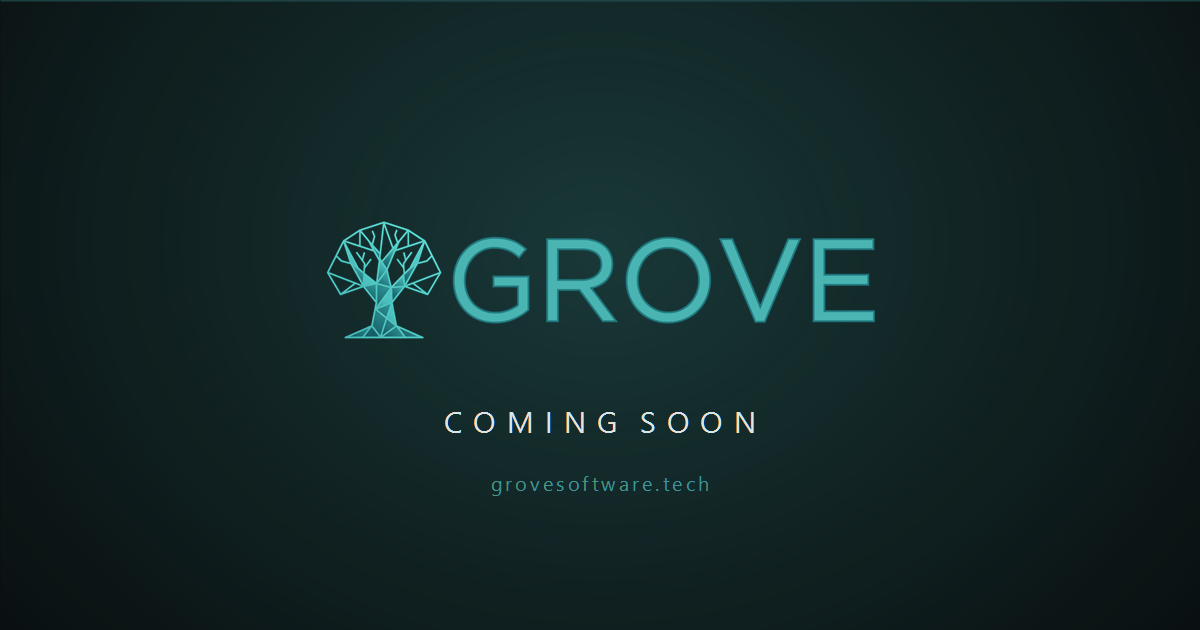
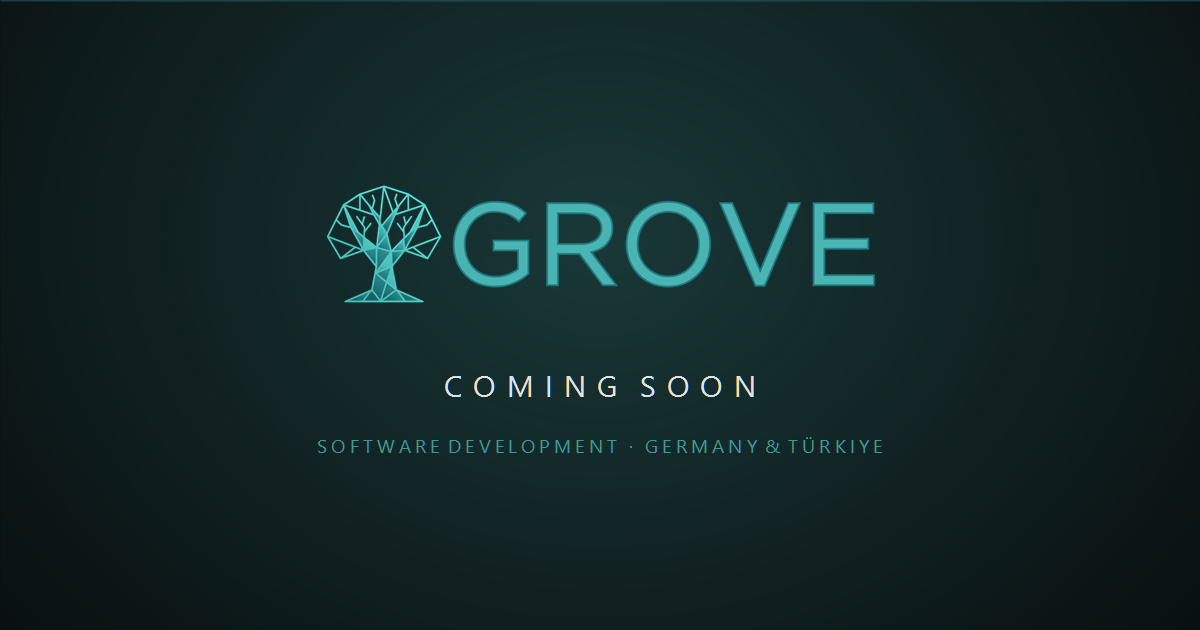
feat: put the real positioning in the copy
Replaces the placeholder message now that the company is known: a
Germany-based software company with its engineering team in Türkiye.

- eyebrow: Software Development
- lede: what Grove builds and the Germany/Türkiye operating model
- footer: Germany · Türkiye in place of the domain, which the browser bar
  and the link unfurl already show
- meta description, og:description and the Organization JSON-LD follow
- og-image carries the positioning line and is vertically recentred

The longer lede pushed a 740x380 landscape viewport 44px past the fold.
Fixed by widening the measure at max-height:620px rather than shrinking the
type — one fewer wrapped line buys back more height than a smaller font.
Re-measured at 360x740, 390x844, 740x380 and 1024x700: no overflow on
either axis.

Constraint: single screen, no scroll, so the copy has to earn its height
Rejected: listing the full service catalogue | a holding page has one job,
  and the list belongs on the real site
Confidence: high
Scope-risk: narrow
Not-tested: docker build (no local daemon); guarded by RUN nginx -t at build
Not-tested: live rendering in iOS Safari and Firefox

diff --git a/index.html b/index.html
@@ -5,7 +5,7 @@
 <meta name="viewport" content="width=device-width, initial-scale=1">
 
 <title>Grove Software — Coming soon</title>
-<meta name="description" content="Grove Software builds software and technology. Our full site is on the way — until then, find us on LinkedIn.">
+<meta name="description" content="Grove Software builds custom software, web and mobile products for European businesses — German business expertise, engineering from our team in Türkiye. Full site coming soon.">
 <link rel="canonical" href="https://grovesoftware.tech/">
 <meta name="theme-color" content="#060A0B">
 
@@ -13,7 +13,7 @@
 <meta property="og:url" content="https://grovesoftware.tech/">
 <meta property="og:site_name" content="Grove Software">
 <meta property="og:title" content="Grove Software — Coming soon">
-<meta property="og:description" content="Grove Software builds software and technology. Our full site is on the way — until then, find us on LinkedIn.">
+<meta property="og:description" content="Custom software, web and mobile products for European businesses — German business expertise, engineering from our team in Türkiye. Full site coming soon.">
 <meta property="og:image" content="https://grovesoftware.tech/assets/og-image.png">
 <meta property="og:image:width" content="1200">
 <meta property="og:image:height" content="630">
@@ -36,6 +36,10 @@
   "name": "Grove Software",
   "url": "https://grovesoftware.tech/",
   "logo": "https://grovesoftware.tech/assets/icon-512.png",
+  "description": "Software development company building custom software, web and mobile products, and integrations for European businesses, with business operations in Germany and an engineering team in Türkiye.",
+  "slogan": "German business expertise. Strong technical execution. Smarter software development.",
+  "address": { "@type": "PostalAddress", "addressCountry": "DE" },
+  "areaServed": "EU",
   "sameAs": ["https://www.linkedin.com/company/grovesoftware/"]
 }
 </script>
@@ -55,12 +59,14 @@
 
       <hr class="rule" data-reveal>
 
-      <p class="eyebrow" data-reveal>Software &amp; Technology</p>
+      <p class="eyebrow" data-reveal>Software Development</p>
 
       <p class="headline" data-reveal>Coming soon</p>
 
       <p class="lede" data-reveal>
-        A new site is growing here. Until it&rsquo;s ready, this is where to find us.
+        We build custom software, web and mobile products for European
+        businesses &mdash; German business expertise, engineering from our
+        team in T&uuml;rkiye.
       </p>
 
       <a class="link" href="https://www.linkedin.com/company/grovesoftware/"
@@ -77,7 +83,7 @@
 
   <footer class="foot" data-reveal>
     <span>&copy; 2026 Grove Software</span>
-    <span class="foot-domain">grovesoftware.tech</span>
+    <span class="foot-where">Germany &middot; T&uuml;rkiye</span>
   </footer>
 </main>
 

diff --git a/styles.css b/styles.css
@@ -192,7 +192,7 @@ body {
   color: rgba(143, 163, 162, 0.62);
 }
 
-.foot-domain { color: rgba(73, 180, 177, 0.72); }
+.foot-where { color: rgba(73, 180, 177, 0.72); }
 
 /* ---------- entrance ---------- */
 
@@ -246,13 +246,26 @@ body {
   .lede { max-width: 24rem; }
 }
 
-/* Landscape phones and short windows: shrink the lockup so the block still
-   clears the fold rather than relying on the scroll. */
+/* Landscape phones and short windows. Declared after the narrow-screen block
+   so these win where both apply. The lede is given more width here, not less:
+   at 740px a wider measure costs one fewer line, which buys back more height
+   than shrinking the type does. */
 @media (max-height: 620px) {
-  .headline { font-size: clamp(2.1rem, 5.4vw, 3.6rem); }
+  .shell { padding-block: 1.25rem; gap: 1.25rem; }
   .mark img { width: clamp(10rem, 20vw, 15rem); }
-  .rule { margin-block: 1.1rem 0.9rem; }
-  .link { margin-top: 1.3rem; }
+  .rule { margin-block: 1.1rem 0.85rem; }
+  .headline {
+    margin-top: 0.7rem;
+    font-size: clamp(2.1rem, 5.4vw, 3.6rem);
+  }
+  .block { max-width: 44rem; }
+  .lede {
+    margin-top: 0.85rem;
+    max-width: 40rem;
+    font-size: 0.95rem;
+    line-height: 1.5;
+  }
+  .link { margin-top: 1.25rem; padding-block: 0.6rem; }
 }
 
 /* ---------- reduced motion ---------- */
